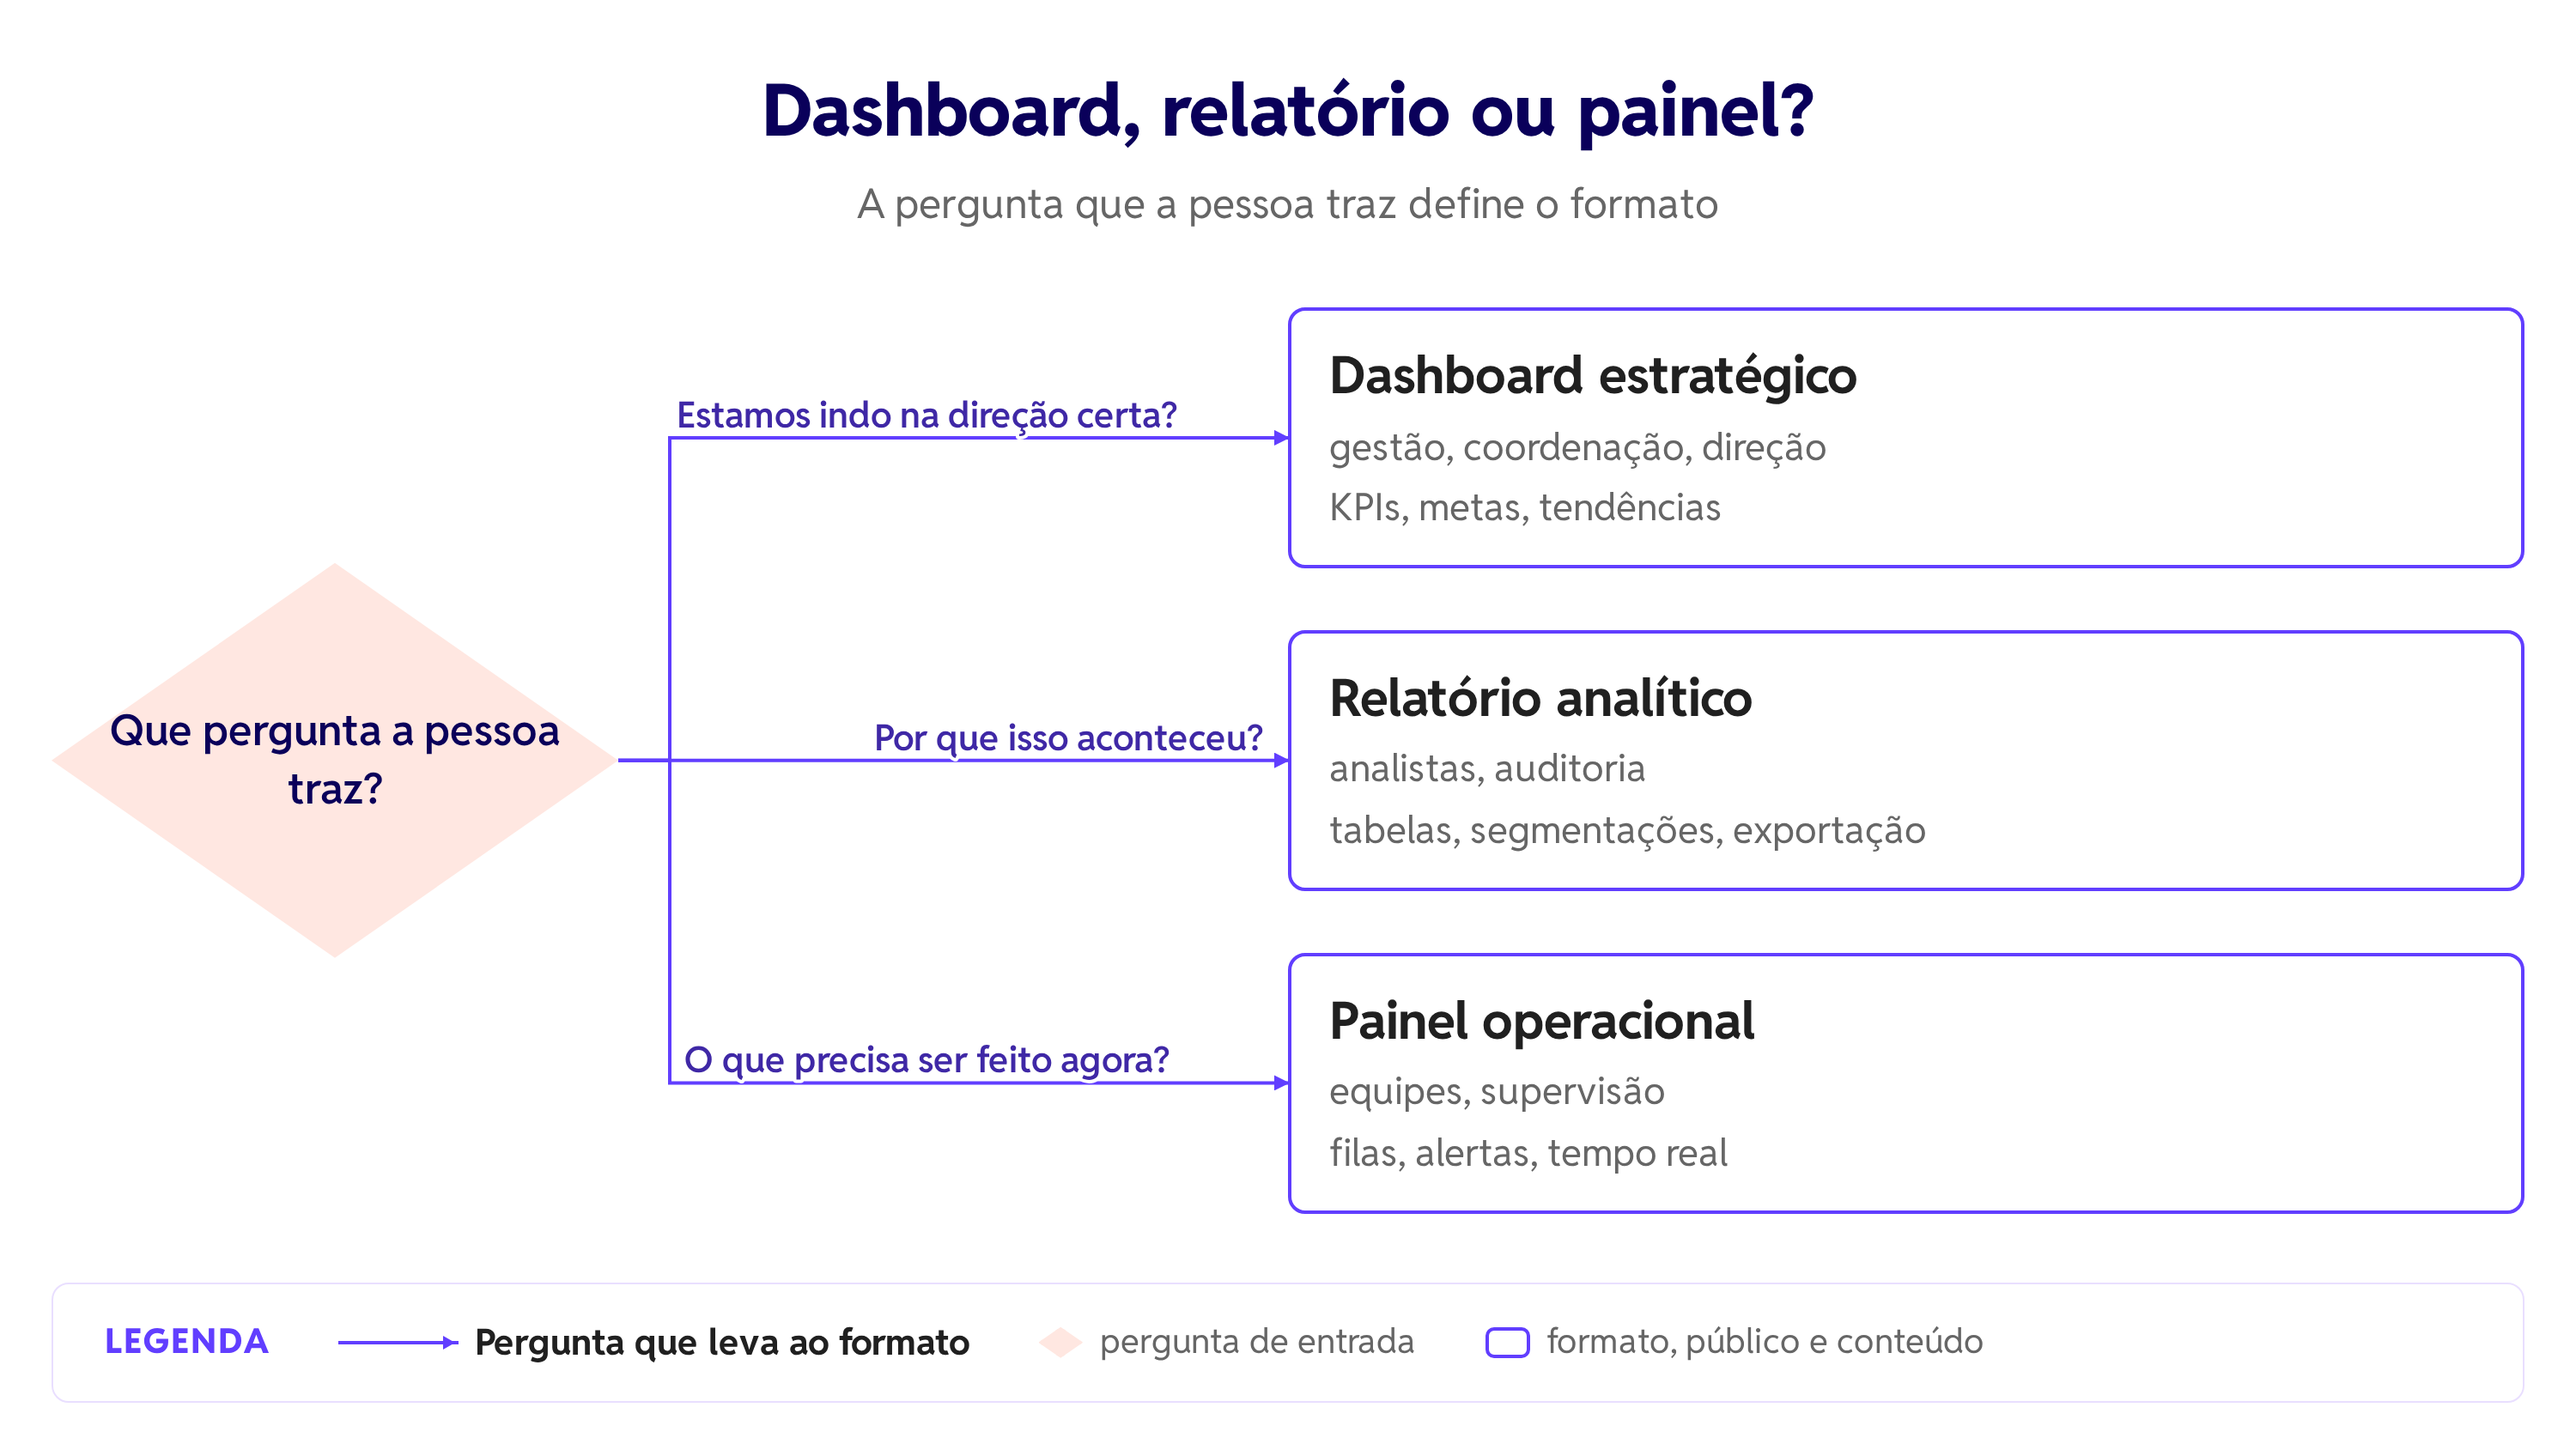
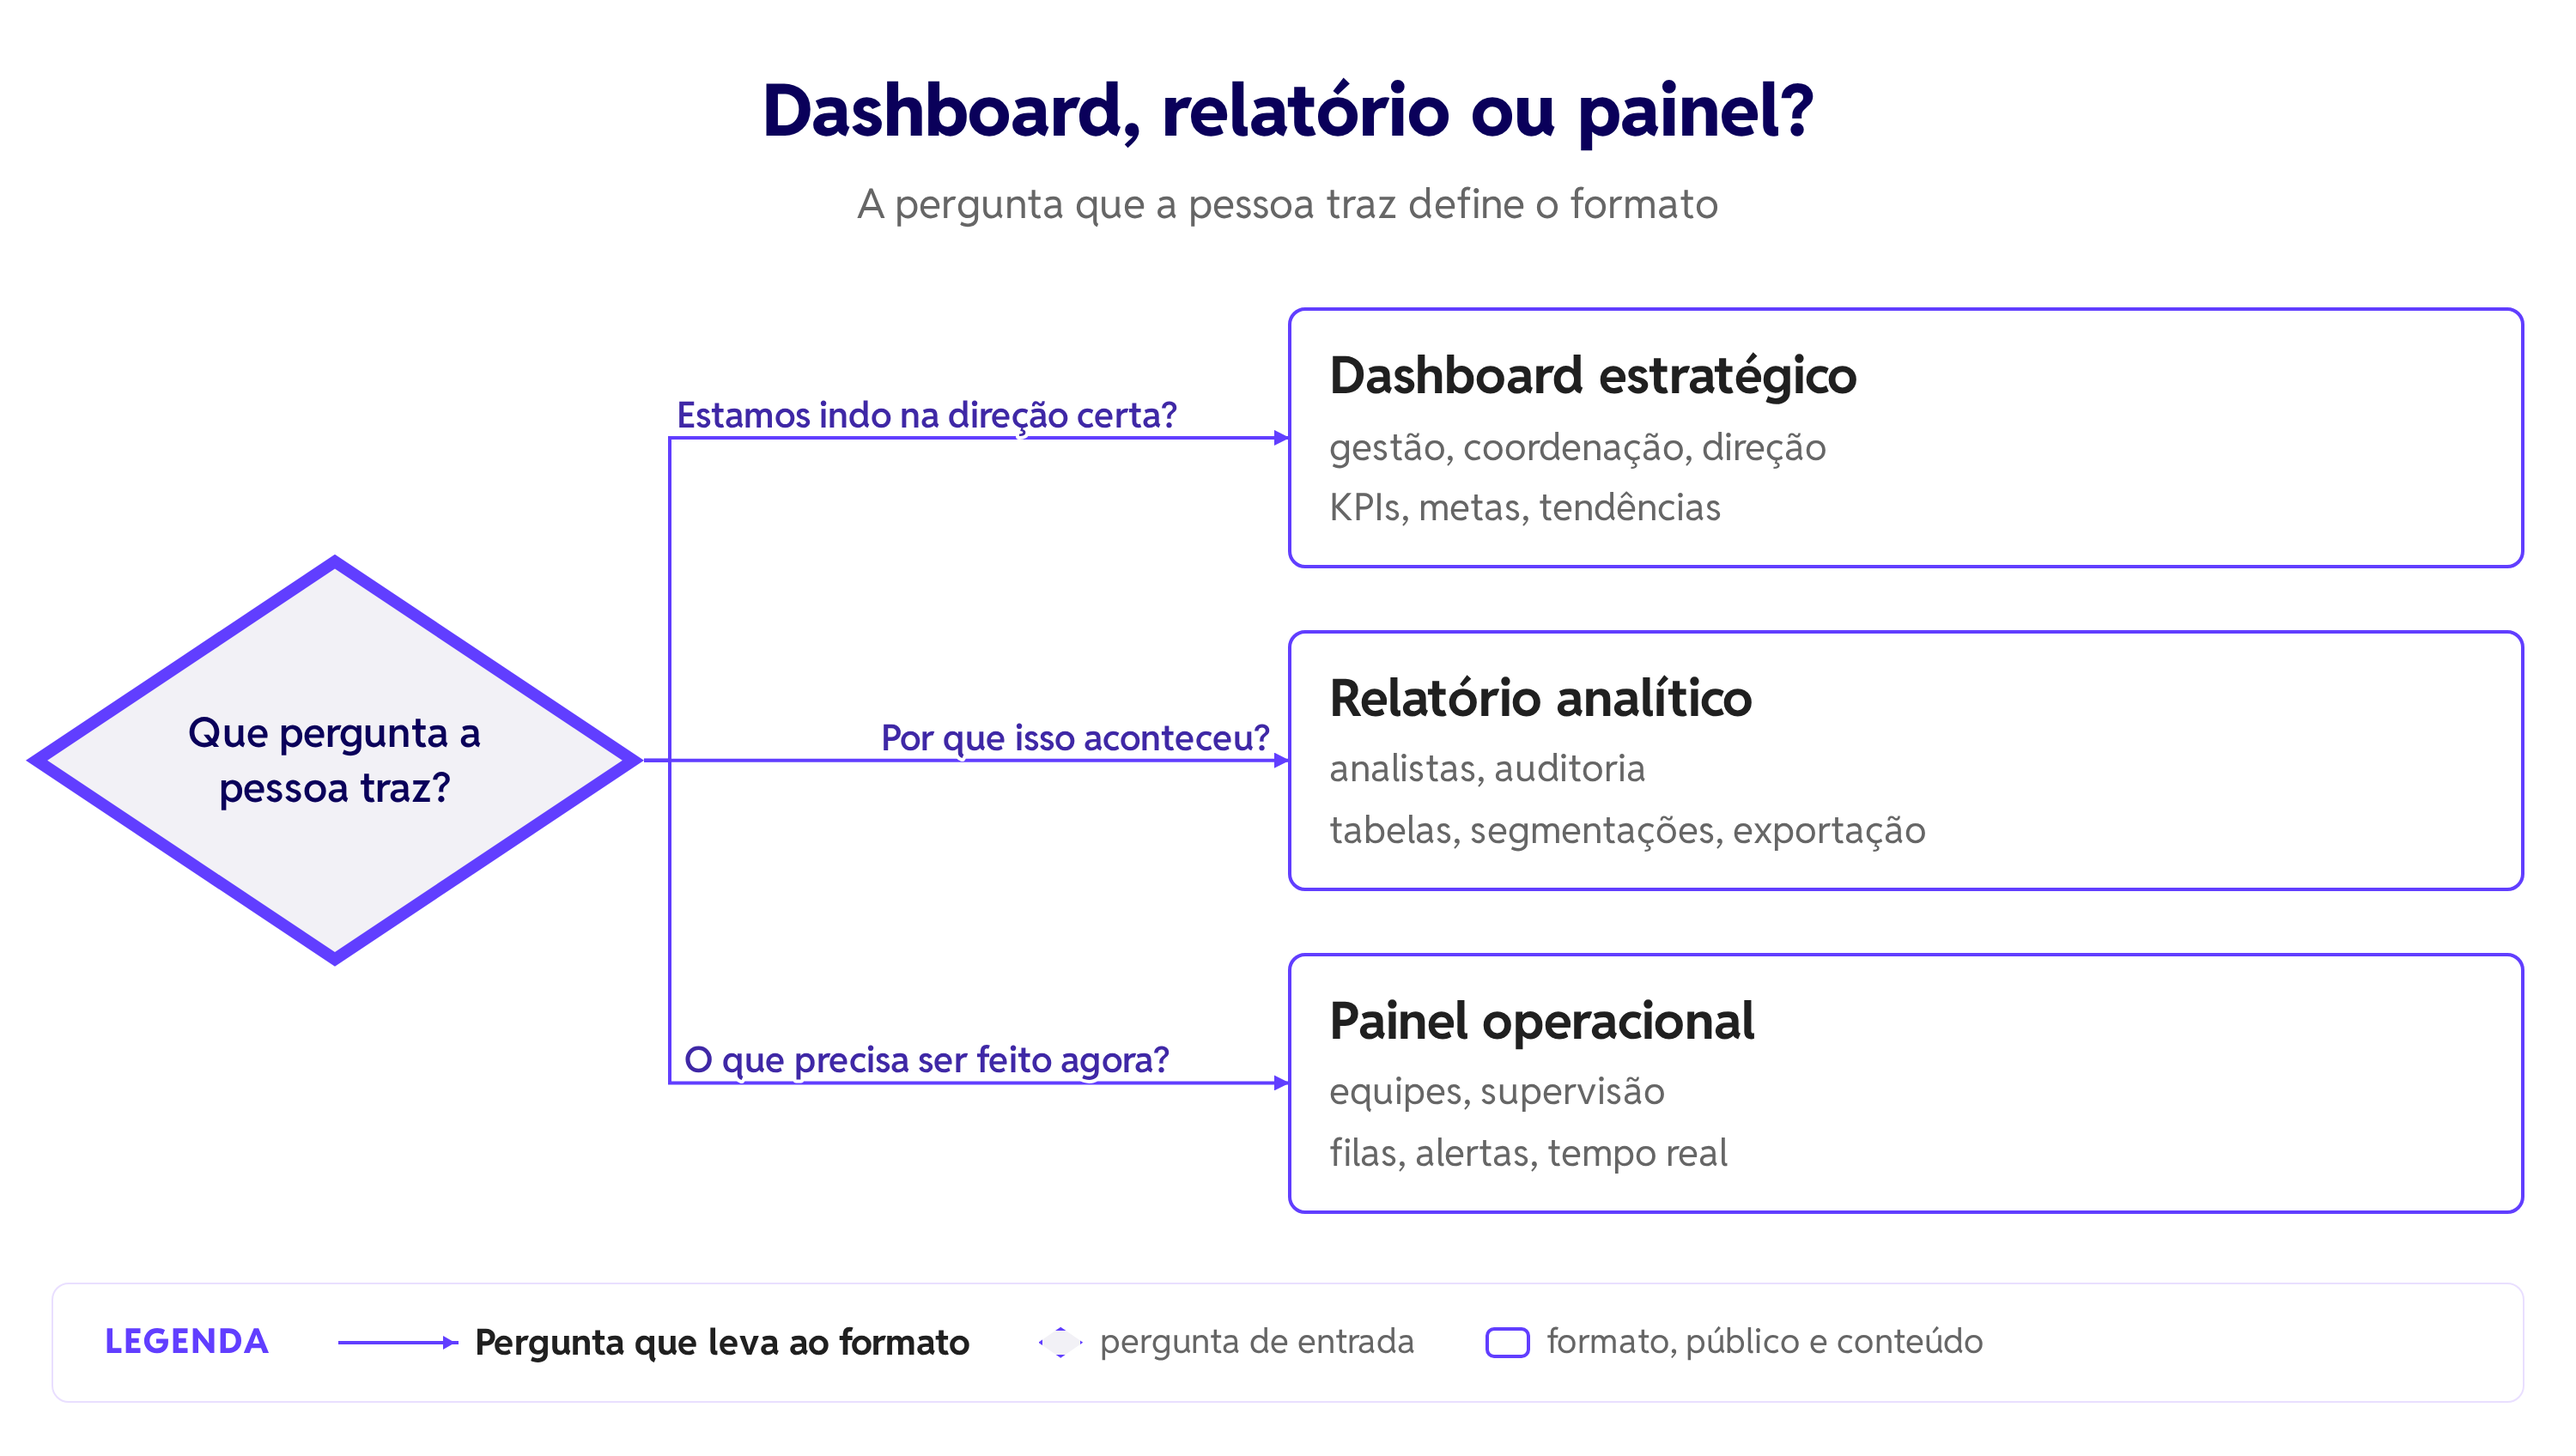
docs: diagramas sem o pêssego descontinuado da identidade
Losangos de decisão em #F2F1F6 com borda #613EFF (também na legenda) e
subtítulo de Organização de páginas e abas corrigido.

diff --git a/assets/diagramas/dashboard-relatorio-painel-operacional.html b/assets/diagramas/dashboard-relatorio-painel-operacional.html
@@ -161,7 +161,7 @@ svg.arrows text { font-family: var(--font); font-size: 11.5px; font-weight: 600;
   .title { font-size: 42px; }
   .subtitle { font-size: 24px; margin-top: 10px; }
   .arvore { display: grid; grid-template-columns: 330px 1fr 720px; align-items: center; }
-  .arvore .decision { width: 330px; height: 230px; font-size: 25px; grid-column: 1; grid-row: 1; }
+  .arvore .decision { width: 360px; height: 240px; font-size: 24px; padding: 0 70px; grid-column: 1; grid-row: 1; }
   .saidas { grid-column: 3; grid-row: 1; display: flex; flex-direction: column; gap: 36px; }
   .node { padding: 18px 22px; }
   .node h3 { font-size: 30px; }
@@ -172,6 +172,12 @@ svg.arrows text { font-family: var(--font); font-size: 11.5px; font-weight: 600;
   .legend .sample { width: 70px; }
   svg.arrows text { font-size: 21px; }
   .canvas { margin-top: 44px; }
+  /* sem pêssego: claro da marca #F2F1F6 + borda roxa no losango */
+  :root { --bg-peach: #F2F1F6; }
+  .decision { position: relative; background: #613EFF; }
+  .decision::before { content: ""; position: absolute; inset: 0; background: #F2F1F6; clip-path: polygon(50% 3.5%, 96.5% 50%, 50% 96.5%, 3.5% 50%); z-index: -1; }
+  .decision { isolation: isolate; }
+  .legend .swatch--peach { background: #F2F1F6; border-color: #613EFF; }
 </style>
 </head>
 <body>

diff --git a/assets/diagramas/organizacao-de-paginas-e-abas.html b/assets/diagramas/organizacao-de-paginas-e-abas.html
@@ -172,12 +172,18 @@ svg.arrows text { font-family: var(--font); font-size: 11.5px; font-weight: 600;
   .legend .sample { width: 56px; flex: none; }
   .legend .item { white-space: nowrap; gap: 8px; }
   svg.arrows text { font-size: 21px; }
+  /* sem pêssego: claro da marca #F2F1F6 + borda roxa no losango */
+  :root { --bg-peach: #F2F1F6; }
+  .decision { position: relative; background: #613EFF; }
+  .decision::before { content: ""; position: absolute; inset: 0; background: #F2F1F6; clip-path: polygon(50% 3.5%, 96.5% 50%, 50% 96.5%, 3.5% 50%); z-index: -1; }
+  .decision { isolation: isolate; }
+  .legend .swatch--peach { background: #F2F1F6; border-color: #613EFF; }
 </style>
 </head>
 <body>
 <div class="diagram">
   <h1 class="title">Uma página ou várias?</h1>
-  <p class="subtitle">Dois critérios, em sequência, e o caminho de volta</p>
+  <p class="subtitle">Um critério de decisão e os sinais para trocar de formato</p>
 
   <div class="canvas">
     <div class="pagina">
